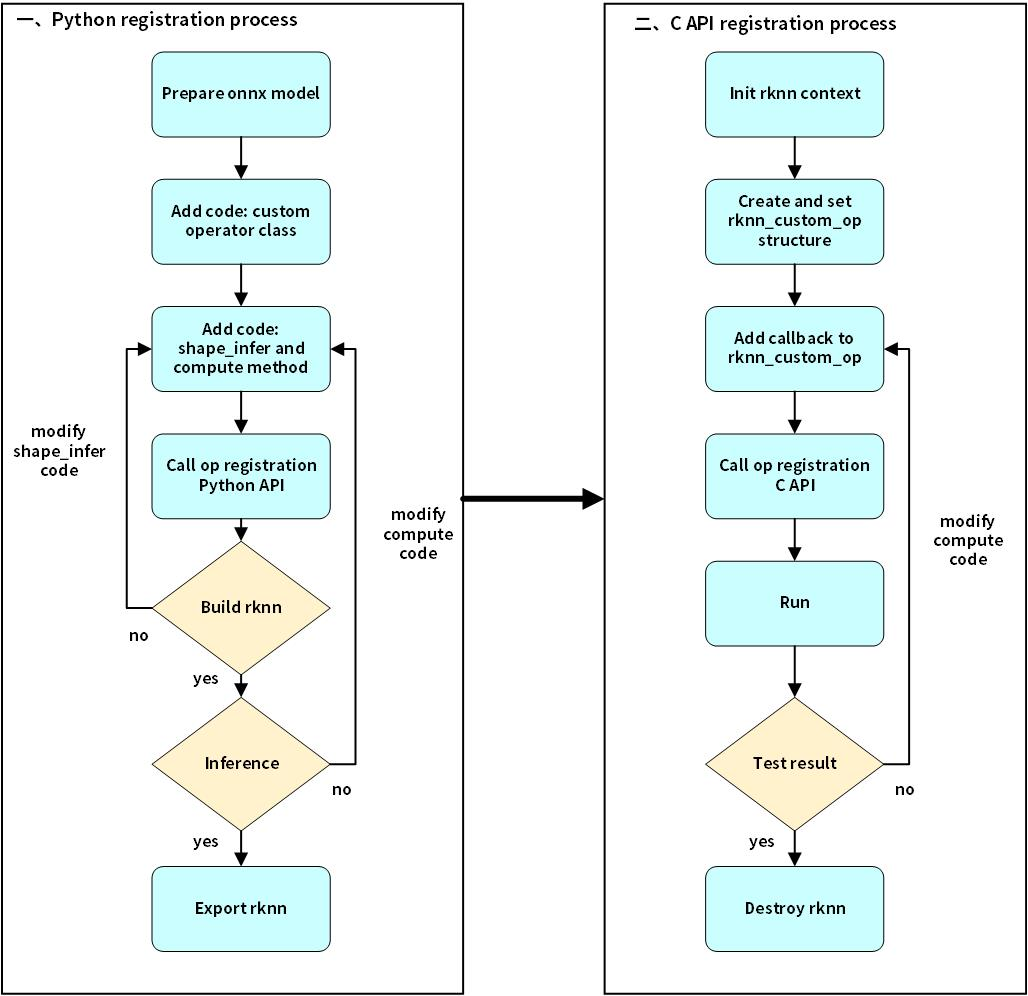
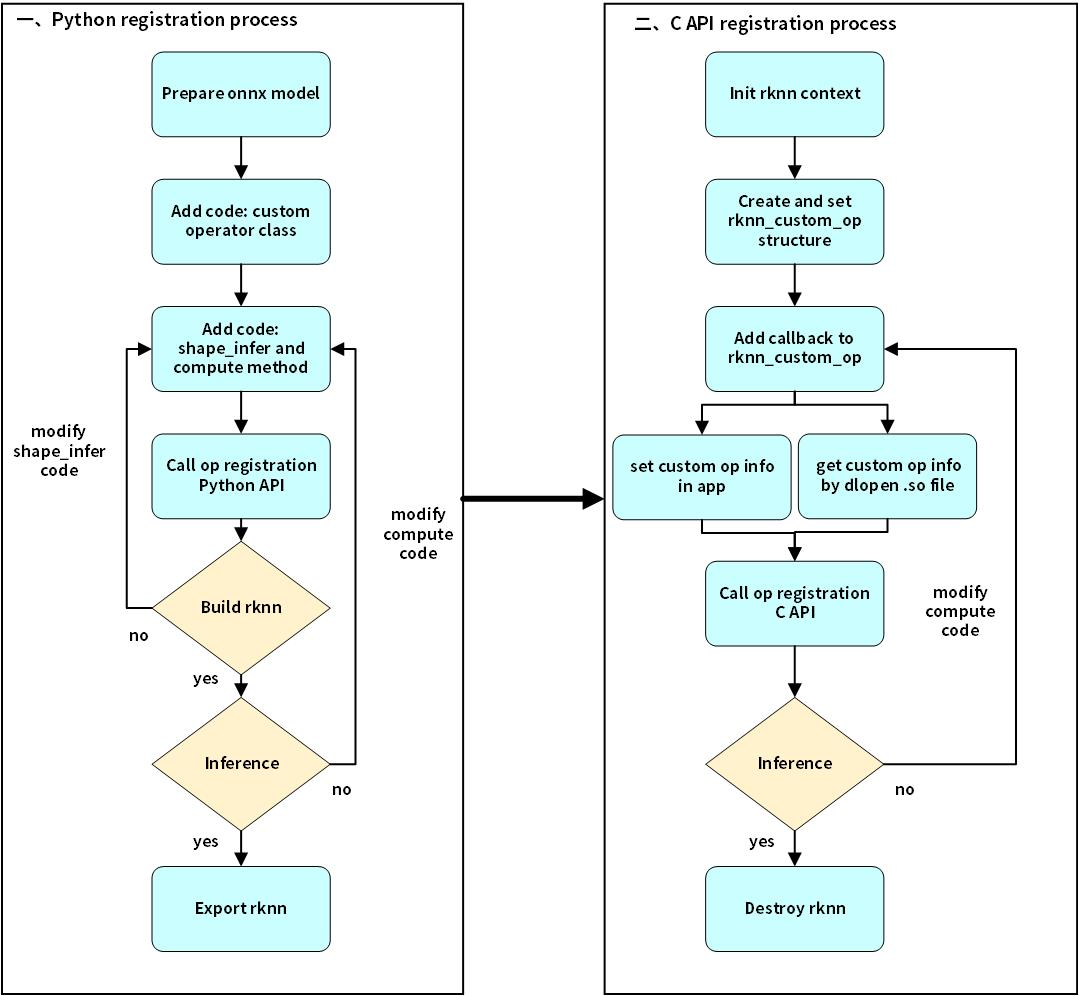
docs:[matmul api] add

diff --git a/docs/RKNN_Advanced_Features/custom_op/custom_op.md b/docs/RKNN_Advanced_Features/custom_op/custom_op.md
@@ -4,16 +4,18 @@
 ## 整体流程介绍
 ![](../..//images/custom_op_registration_process.jpg)
 
-1. 准备onnx模型: 按照自定义算子ONNX spec规范, 开发者设计自定义算子的类型、名字、 属性、输入/输出数量,并将该算子插入到onnx中的拓扑图位置，此过程开发者需要使用onnx包提供的api来修改和导出onnx模型。
-2. 实现自定义算子Python类, 类里包括shape_infer和compute两个成员函数, 并调用Toolkit2的api注册该算子。
-3. Toolkit2仿真调试通过后,转换并生成rknn模型。
-4. 加载rknn模型，初始化模型上下文，然后，创建自定义算子的上下文，设置自定义算子结构体，完成结构体的初始化、预处理、推理、销毁各个阶段的回调函数实现,其中推理回调函数是必须由客户填充, 最后, 调用自定义算子API注册四个回调函数和算子信息。
-5. 上板调试,回调函数调试通过后，开启模型详细日志和Dump功能确认完整模型的正确性。
+1. 准备onnx模型: 按照自定义算子ONNX spec规范, 用户设计自定义算子的op类型,名字, op属性,输入/输出数量,并将该算子插入到onnx中的拓扑图位置，用户使用onnx包提供的api设计和导出onnx模型
+2. 实现自定义算子Python类, 类里主要包括shape_infer和compute两个函数, 并调用toolkit2的api注册该算子
+3. Toolkit2仿真调试,转换并生成rknn模型
+4. 在部署时，有两种注册自定义算子的方式：一种是App程序直接调用RKNN 自定义算子C API的方式，另一种是插件库的方式，即用户开发调试完成，已经编译成动态库后，从特定目录dlopen动态库并并调用特定的注册函数，前者方便开发验证算子正确性，后者用于连板调试
+5. API的调用流程是，先加载rknn模型，初始化模型上下文，然后创建自定义算子的上下文，设置自定义算子结构体，完成结构体的初始化,预处理,推理,销毁各个阶段的回调函数实现,其中推理回调函数是必须客户填充, 最后, 调用自定义算子API注册四个回调函数和op信息
+6. 上板调试：回调函数调试通过后，编译运行，开启模型详细日志和Dump功能确认完整模型的正确性
+7. 精度分析：若用户需要对包含自定义算子的模型做连板精度分析，首先将自定义算子的回调函数实现代码编译成so后，放在指定的路径，并重启rknn_server。最后，使用Toolkit2接口查看结果。
 
 
 ## C API处理
 
-在得到带自定义算子的rknn模型后，开始调用C API部署。首先，自定义算子的结构体和接口位于rknn_custom_op.h头文件，开发者程序需要包含该头文件。注册使用自定义算子的流程如下图所示：
+在得到带自定义算子的rknn模型后，开始调用C API部署。首先，自定义算子的结构体和接口位于rknn_custom_op.h头文件，开发者程序编译时需要包含该头文件。注册使用自定义算子的流程如下图所示：
 
 ![](../../images/custom_op_c_api_call_process.jpg)
 
@@ -26,7 +28,92 @@
 - cl_kernel_name/cl_file_name/cl_build_options：在注册GPU算子时必须配置，它们分别表示客户OpenCL代码文件和核函数名，以及编译选项，以字符串形式传入。若是CPU算子，则无须配置
 - init,compute, compute_native, prepare和destroy均是函数指针，要开发者实现该函数实体后，设置给rknn_custom_op结构体相应的函数指针
 
-### 2. 创建自定义算子实现
+#### 插件库方式初始化自定义算子结构体
+由于连板调试时，rknn_server会采用dlopen的方式从特定目录打开用户编译好的自定义算子插件库来获取算子信息，因此，对于插件库方式注册自定义算子，要求用户必须实现一个名为get_rknn_custom_op的函数，示例如下：
+```
+/**
+ * To obtain operator information to be registered, a plugin library must have one and only one of this function.
+*/
+rknn_custom_op* get_rknn_custom_op()
+{
+  int8_t use_native_dtype = 0;
+
+  // register a custom op
+  memset(&user_op, 0, sizeof(rknn_custom_op));
+  strncpy(user_op.op_type, "cstSoftmax", RKNN_MAX_NAME_LEN - 1);
+  user_op.version = 1;
+  user_op.target  = RKNN_TARGET_TYPE_CPU;
+  user_op.init    = custom_op_init_callback;
+  if (use_native_dtype == 0) {
+    user_op.compute = compute_custom_softmax_float32;
+  } else {
+    user_op.compute_native = compute_custom_relu_use_native_dtype;
+  }
+  user_op.destroy = custom_op_destroy_callback;
+  return &user_op;
+}
+```
+用户代码调用dlopen获取特定目录的所有so库文件句柄，再使用dlsym函数获取get_rknn_custom_op函数指针，调用该函数指针即可获取自定义算子结构体，这是rknn_server的打开方式，示例代码如下：
+```
+  const char* default_plugin_path =
+#if defined(__ANDROID__)
+#  if defined(__aarch64__)
+    "/vendor/lib64/rknpu/op_plugins";
+#  else
+    "/vendor/lib/rknpu/op_plugins";
+#  endif // __aarch64__
+#elif defined(__linux__)
+    "/usr/lib/rknpu/op_plugins/";
+#endif
+  std::vector<std::string> so_paths = get_plugin_so(default_plugin_path);
+  std::vector<void*>       so_handles;
+  for (auto path : so_paths) {
+    printf("load plugin %s\n", path.c_str());
+    void* plugin_lib = dlopen(path.c_str(), RTLD_NOW);
+    if (plugin_lib == NULL) {
+      printf("load plugin %s fail\n", path.c_str());
+      continue;
+    }
+
+    char* error = dlerror();
+    if (error != NULL) {
+      fprintf(stderr, "try to dlopen %s fail: %s\n", path.c_str(), error);
+      dlclose(plugin_lib);
+      return -1;
+    }
+    printf("dlopen %s successfully!\n", path.c_str());
+    get_custom_op_func custom_op_func = (get_custom_op_func)dlsym(plugin_lib, "get_rknn_custom_op");
+    error                             = dlerror();
+    if (error != NULL) {
+      fprintf(stderr, "dlsym fail: %s\n", error);
+      dlclose(plugin_lib);
+      return -1;
+    }
+
+    rknn_custom_op* user_op = custom_op_func();
+
+    so_handles.push_back(plugin_lib);
+  }
+```
+
+除此之外，插件库需要满足以下要求：
+- 包含自定义算子rknn_custom_op回调函数的实现
+- 如果是C++代码实现的插件库，C接口中为了正确打开函数符号，要在函数定义前后加入如下宏：
+```
+#ifdef __cplusplus
+extern "C" {
+#endif
+
+//code
+
+#ifdef __cplusplus
+} // extern "C"
+#endif
+````
+
+
+
+### 2. 增加自定义算子回调函数实现
 
 - init和destroy回调执行一次,分别在rknn_register_custom_op和rknn_destory中执行。
 - init,prepare和destroy回调函数为可选实现, compute和compute_native回调函数开发者必须实现其中一个。
@@ -314,3 +401,10 @@ void relu_destroy_callback_gpu(rknn_custom_op_context* op_ctx)
 
 ### 4. 模型推理
 在注册完所有算子后，可以使用通用API或零拷贝API流程完成推理
+
+### 5. 连板精度分析
+若用户需要对包含自定义算子的模型做连板精度分析，具体步骤如下：
+1. 实现一个get_rknn_custom_op函数和必须的回调函数，并编译成对应系统的库，编译的插件库名称可以任意，但必须以.so为后缀，例如，库名是librelu_rk.so
+2. 插件放到/vendor/lib64/rknpu/op_plugins（Android）或/usr/lib/rknpu/op_plugins（Linux）
+3. rknn_server支持通过环境变量修改plugin库的路径,环境变量是RKNN_OP_PLUGIN_PATH,变量值是plugin库的全路径，例如：export RKNN_OP_PLUGIN_PATH=/data/rknpu/op_plugins。设置完重启rknn_server服务后生效。
+4. PC端使用RKNN-Toolkit2的Python接口执行连板精度分析。

diff --git a/docs/RKNN_User_Guide/matmul_api/matmul_api.md b/docs/RKNN_User_Guide/matmul_api/matmul_api.md
@@ -1,0 +1,83 @@
+# Matmul API
+Matmul API是Runtime提供的一套单独的C API，用于在NPU上运行矩阵乘法运算。矩阵乘法是线性代数中的一种重要操作，该操作定义如下：
+```
+C=A*B
+```
+其中，A是一个M×K矩阵，B是一个K×N矩阵，C是一个M×N矩阵。
+
+## 主要用途和特点
+
+Matmul API多用于深度学习中的参数计算任务，例如，在大型预训练模型（如Transformer）中，自注意力机制使用大量矩阵乘法来计算注意力权重和上下文表示，它的性能对大模型的整体性能至关重要。它具有以下特点：
+
+- **高效**：Matmul API底层使用NPU实现，具有高性能低功耗的特点。
+
+- **灵活**：Matmul API无需加载rknn模型，支持int8和float16两种边缘端计算常用的数据类型，提供单独的内存分配接口或使用外部内存的机制，用户可管理和复用矩阵的输入输出内存。
+
+## Matmul API使用流程
+
+首先，Matmul API的结构体和接口位于rknn_matmul_api.h头文件，开发者程序编译时需要包含该头文件。Matmul API的流程如下图所示：
+
+![](../../images/matmul_api_process.jpg)
+
+使用Matmul API通常包括以下步骤：
+
+1. 创建上下文：设置rknn_matmul_info结构体，需设置M、K、N、输入矩阵的数据类型、输入、输出矩阵使用的数据排列方式，然后，调用rknn_matmul_create接口初始化上下文。在初始化后，获取以rknn_matmul_io_attr结构体指针，它包含了输入和输出矩阵Tensor信息。
+2. 指定运行NPU核（仅RK3588平台有效）：调用rknn_matmul_set_core_mask，设置掩码来指定某一个NPU核做运算。
+3. 创建输入和输出内存：调用rknn_matmul_create_mem接口，根据输入和输出矩阵Tensor信息中的大小创建内存。
+4. 填充输入数据：根据形状和数据类型填充输入矩阵数据。
+5. 设置输入和输出内存：调用rknn_matmul_set_io_mem将填充好数据的输入矩阵和记录到上下文中，输出内存也同样记录到上下文中。
+6. 执行矩阵乘法运算：设置好输入和输出内存后，调用rknn_matmul_run执行矩阵乘法运算。
+7. 处理输出：执行矩阵乘法运算后，从输出内存中读取结果。
+8. 销毁资源：执行结束后，调用rknn_destroy_mem和rknn_matmul_destroy分别销毁内存和上下文资源。
+
+
+## 矩阵乘法输入输出数据排列方式和数据类型说明
+
+
+### 为什么需要native_layout和perf_layout?
+由于NPU是专用的硬件架构，对于NPU并不能最高效地读取MxK和KxN的形状的数据，MxN的C矩阵也不是以最高效地方式写入，因此，提供了特殊的数据排列方式以实现更高的性能。输入输出排列方式由rknn_matmul_info结构体中的perf_layout和native_layout两个参数控制。
+
+#### perf_layout
+perf_layout用于指定矩阵A和C的数据排列，假设矩阵A的原始形状是MxK,矩阵C的原始形状是MxN,要求的数据排列方式如下：
+1. 若perf_layout=0, 矩阵A的形状为[M,K]，数组的长度为M×K。矩阵C的形状为[M,N]，数组的长度为M×N。
+2. 若perf_layout=1, 不同芯片平台和数据类型下矩阵A和C的数据排列如下表所示（表中除法结果都是上取整，多出部分用0补齐）：
+
+
+||RK3566/RK3568|RK3588|RK3562|
+|-----|----|----|----|
+|A形状(int8)|[K/8,M,8]|[K/16,M,16]|[K/16,M,16]|
+|A形状(float16)|	[K/4,M,4]|[K/8,M,8]|[K/8,M,8]|
+|C形状(int32)|[K/8,M,8]|[K/16,M,16]|[K/16,M,16]|
+|C形状(float32)|	[K/4,M,4]|[K/8,M,8]|[K/8,M,8]|
+
+
+#### native_layout
+native_layout用于指定矩阵B的数据排列，假设矩阵B的原始形状是KxN,要求的数据排列方式如下：
+1. 若native_layout=0, 矩阵A的形状为[K,N]，数组的长度为K×N。
+2. 若native_layout=1, 不同芯片平台和数据类型下矩阵B的数据排列如下表所示（表中除法结果都是上取整，多出部分用0补齐）：
+
+
+||RK3566/RK3568|RK3588|RK3562|
+|-----|----|----|----|
+|B形状(int8)|[N/16,K/32,16,32]|[N/32,K/32,32,32]|[N/16,K/32,16,32]|
+|B形状(float16)|[N/8,K/16,8,16]|[N/16,K/32,16,32]|[N/8,K/32,8,32]|
+
+
+### 矩阵规格限制
+Matmul API是基于NPU的硬件架构实现，受硬件规格限制。K和N大小限制如下：
+
+||RK3566/RK3568|RK3588|RK3562|
+|-----|----|----|----|
+|K大小限制(int8)|<=4096且32对齐	|<=4096且32对齐|<=4096且32对齐|
+|K大小限制(float16)|<=4096且32对齐	|<=4096且32对齐|<=4096且32对齐|
+|N大小限制(int8)|<=4096且16对齐	|<=4096且32对齐|<=4096且16对齐|
+|N大小限制(float16)|<=4096且16对齐	|<=4096且32对齐|<=4096且16对齐|
+
+矩阵输入输出数据类型要求如下：
+
+||矩阵A|矩阵B|矩阵C|
+|-----|----|----|---|
+|类型1|int8|int8|int32|
+|类型2|float16|float16|float32|
+
+其中，float16浮点格式遵循IEEE-754标准，具体格式请参考[IEEE-754 half](https://en.wikipedia.org/wiki/Half-precision_floating-point_format)

diff --git a/docs/op_support_list/op_support_list.md b/docs/op_support_list/op_support_list.md
@@ -1,0 +1,8 @@
+<!--
+ * @Author: Chifred
+ * @Date: 2023-10-25 14:19:18
+ * @LastEditTime: 2023-11-01 11:57:12
+ * @Editors: Chifred
+ * @Description: TODO
+-->
+# op suppot list
